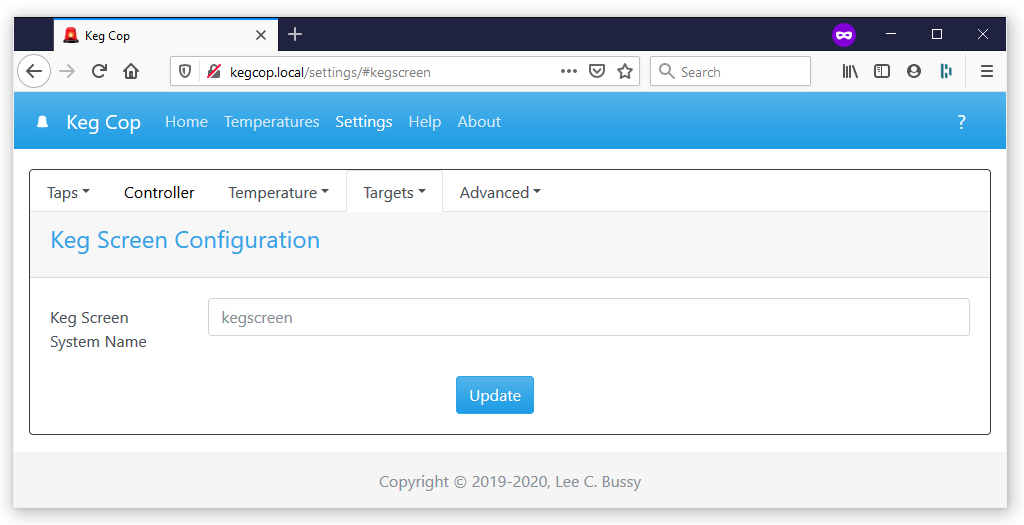
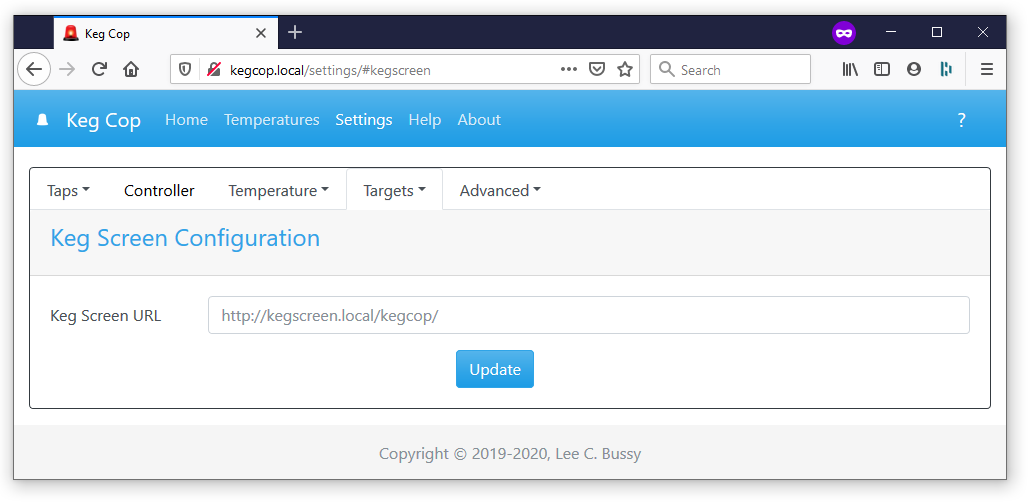
Initial pages

diff --git a/docs/context/settings/targets/kegscreen/index.rst b/docs/context/settings/targets/kegscreen/index.rst
@@ -8,8 +8,4 @@ Keg Screen Target
    :align: center
    :alt: Keg Screen Settings
 
-.. todo::
-   Finish this page
-
-.. todo::
-   Spellcheck!
+The Keg Screen page allows you to set or clear the URL of the Keg Screen endpoint. Removing the value will disable Keg Screen reports.
